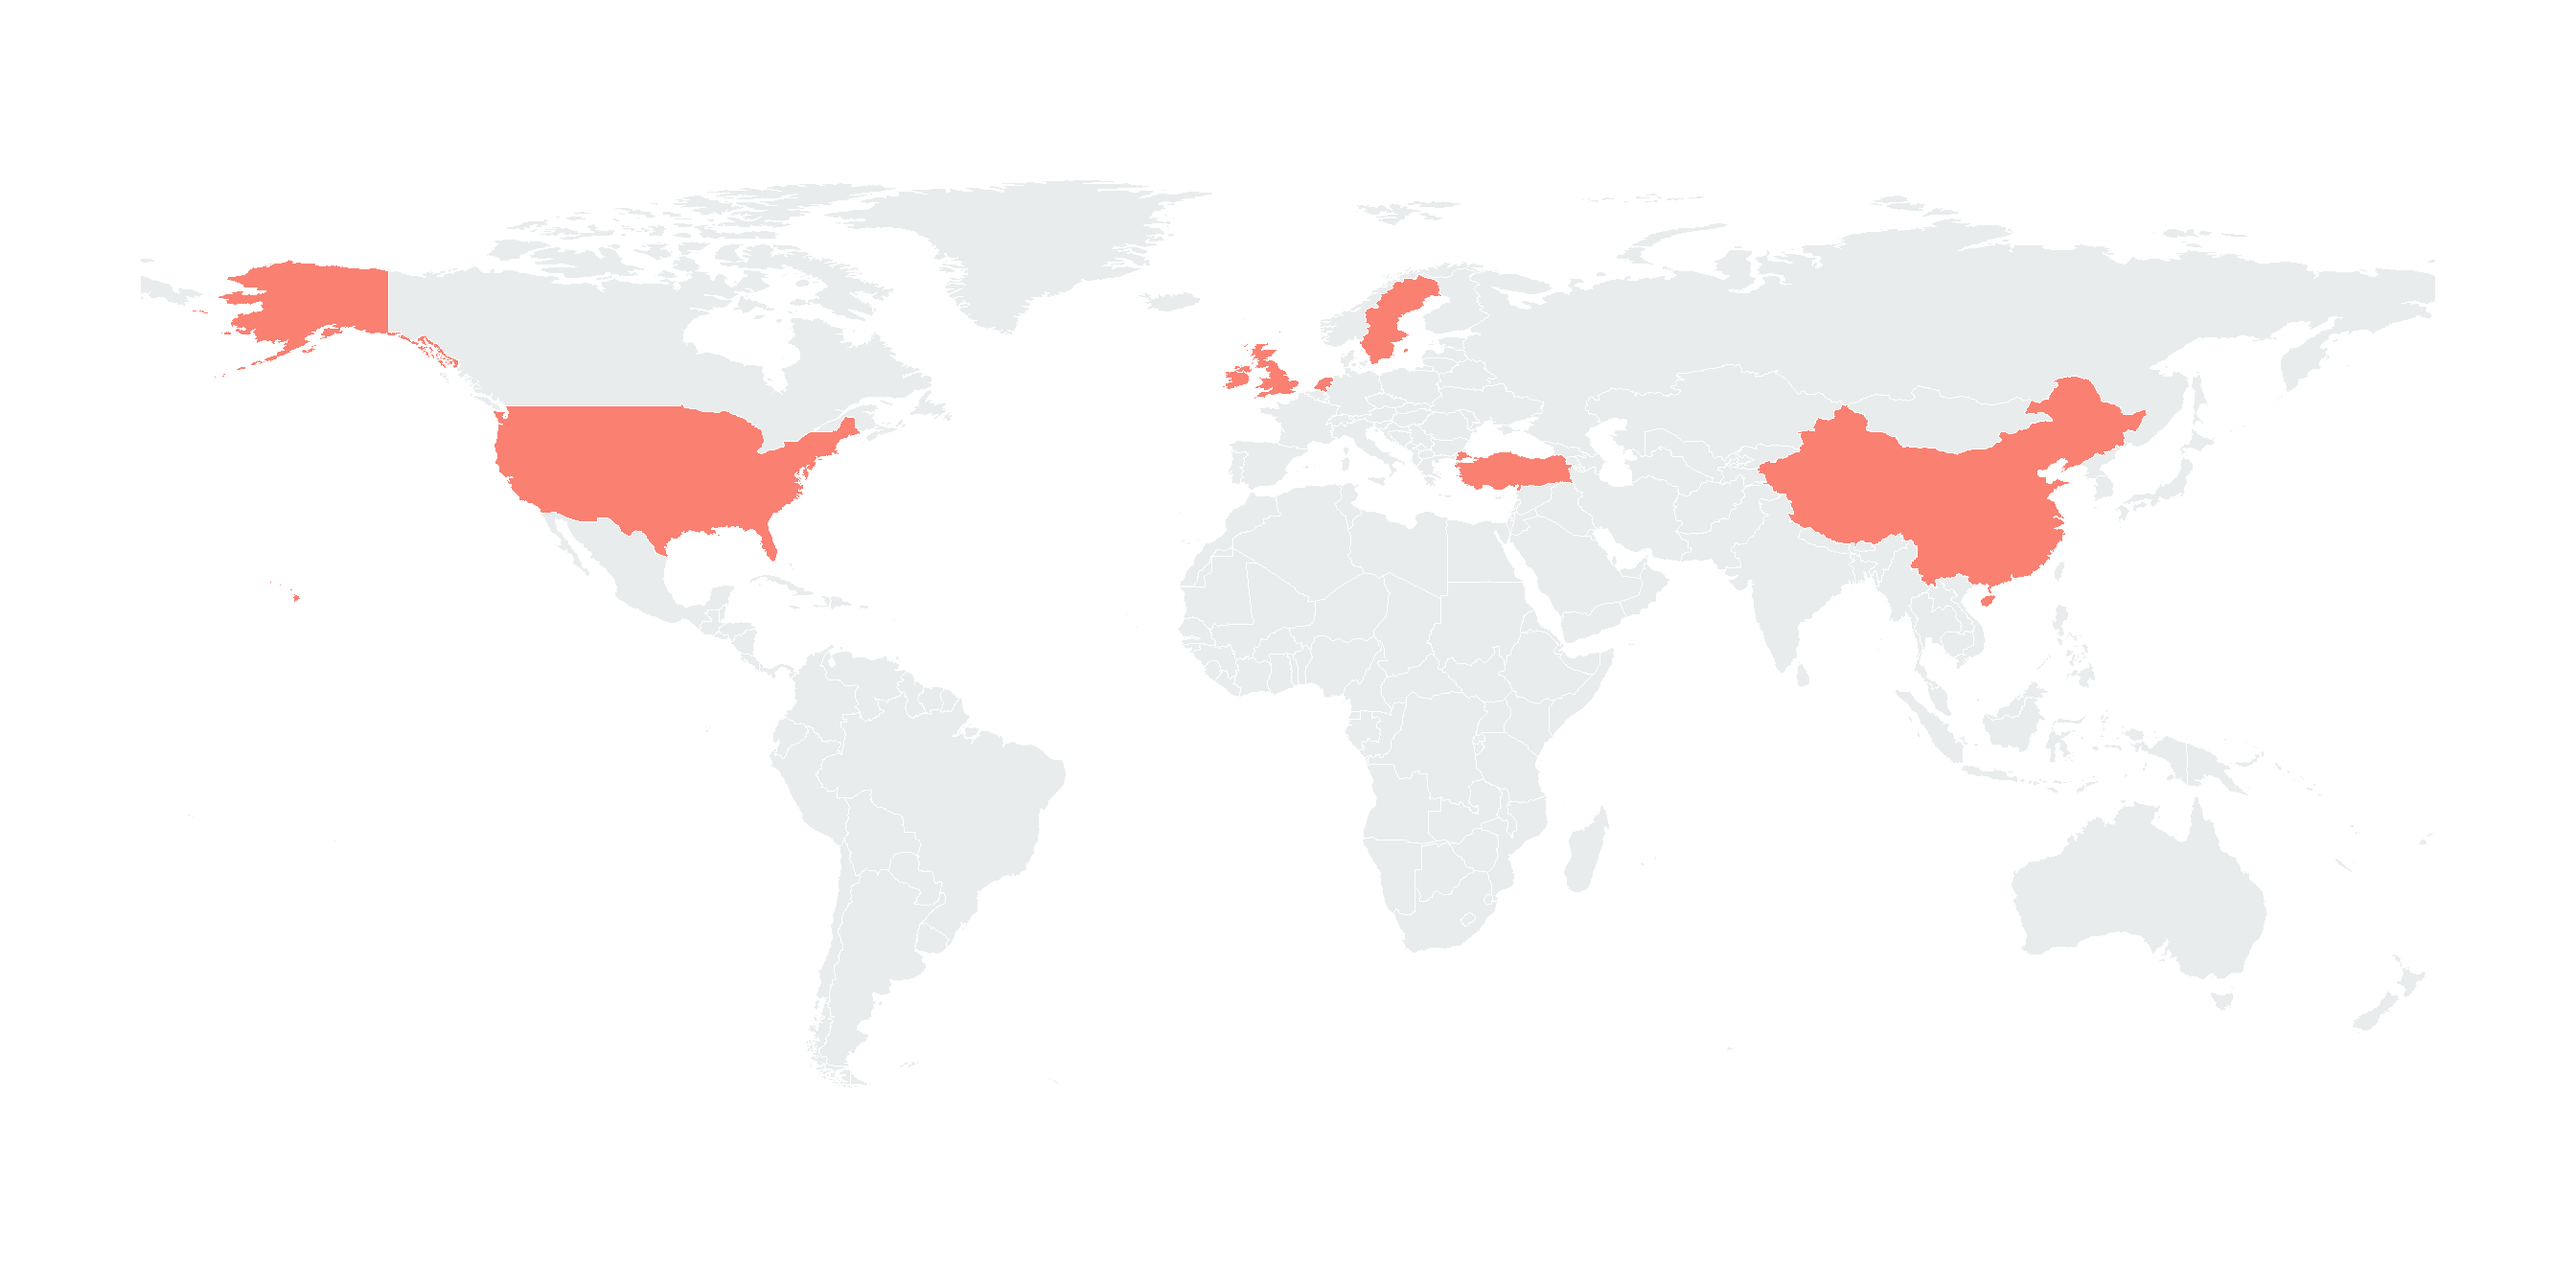
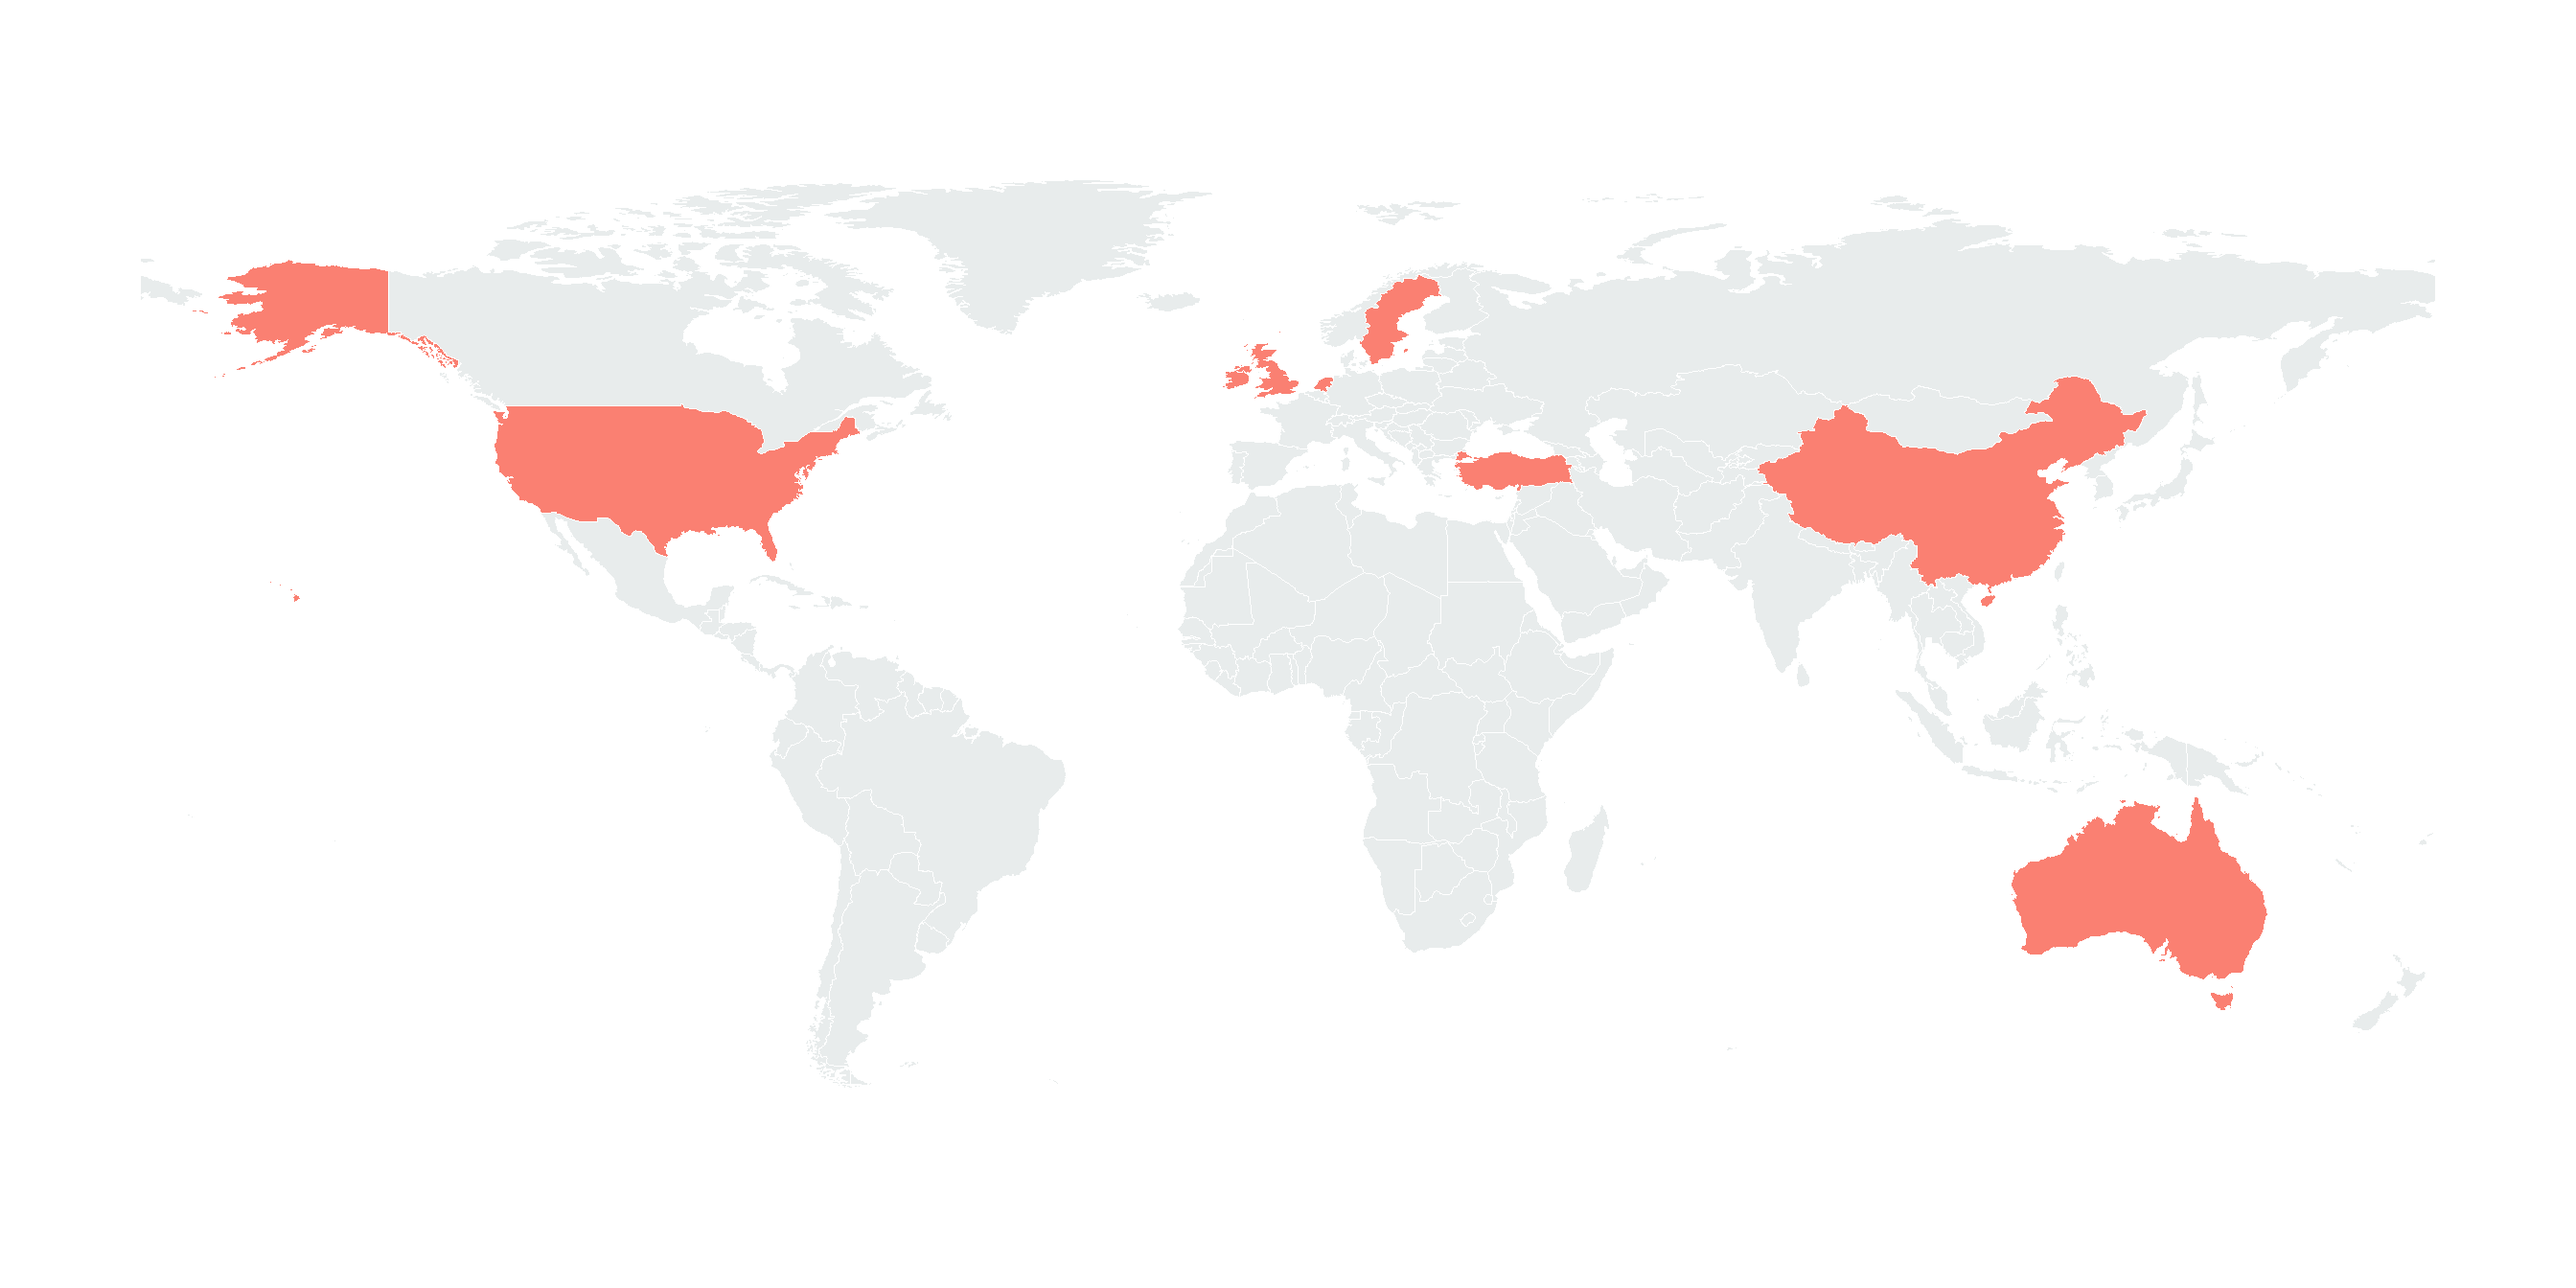
Built site for gh-pages

Changed region(s): [[0.7812, 0.625, 0.9062, 0.7812]]

diff --git a/members.html b/members.html
@@ -173,10 +173,10 @@ CATER brings together researchers, doctoral researchers, educators, and collabor
 <p><span>16</span> <label>Members</label></p>
 </div>
 <div>
-<p><span>12</span> <label>Institutions</label></p>
+<p><span>16</span> <label>Institutions</label></p>
 </div>
 <div>
-<p><span>7</span> <label>Countries</label></p>
+<p><span>8</span> <label>Countries</label></p>
 </div>
 </div>
 <div class="cell">
@@ -316,6 +316,17 @@ Laurus Ryecroft, UK
 </div>
 </div>
 <div class="member-card">
+<p><a href="https://researchportal.scu.edu.au/esploro/profile/david_ellis/overview?institution=61SCU_INST" target="_blank" rel="noopener noreferrer" class="member-photo-link"> <img src="images/members/no-profile-image.jpg" alt="David Ellis" class="member-photo"> </a></p>
+<div class="member-info">
+<p class="member-name">
+David Ellis
+</p>
+<p class="member-location">
+SCU, Australia
+</p>
+</div>
+</div>
+<div class="member-card">
 <p><a href="https://www.liammaquet.com" target="_blank" rel="noopener noreferrer" class="member-photo-link"> <img src="images/members/liam-maquet.jpg" alt="Liam Maquet" class="member-photo"> </a></p>
 <div class="member-info">
 <p class="member-name">
@@ -344,6 +355,17 @@ UL, Ireland
 </div>
 </div>
 <div class="member-card">
+<p><a href="https://www.scu.edu.au/about/contacts/directory/132473/" target="_blank" rel="noopener noreferrer" class="member-photo-link"> <img src="images/members/no-profile-image.jpg" alt="Leighann Ness Wilson" class="member-photo"> </a></p>
+<div class="member-info">
+<p class="member-name">
+Leighann Ness Wilson
+</p>
+<p class="member-location">
+SCU, Australia
+</p>
+</div>
+</div>
+<div class="member-card">
 <p><a href="https://www.seanoconnor.eu/" target="_blank" rel="noopener noreferrer" class="member-photo-link"> <img src="images/members/sean-oconnor.jpg" alt="Sean O'Connor" class="member-photo"> </a></p>
 <div class="member-info">
 <p class="member-name">
@@ -362,6 +384,17 @@ Jason Power
 </p>
 <p class="member-location">
 UL, Ireland
+</p>
+</div>
+</div>
+<div class="member-card">
+<p><img src="images/members/carol-puddicombe.jpg" alt="Carol Puddicombe" class="member-photo"></p>
+<div class="member-info">
+<p class="member-name">
+Carol Puddicombe
+</p>
+<p class="member-location">
+ECU, Australia
 </p>
 </div>
 </div>
@@ -391,6 +424,28 @@ CTH, Sweden
 </div>
 </div>
 <div class="member-card">
+<p><a href="https://www.jtdesignandtechnology.com/" target="_blank" rel="noopener noreferrer" class="member-photo-link"> <img src="images/members/joanne-taylor.jpg" alt="Joanne Taylor" class="member-photo"> </a></p>
+<div class="member-info">
+<p class="member-name">
+Joanne Taylor
+</p>
+<p class="member-location">
+UCL, UK
+</p>
+</div>
+</div>
+<div class="member-card">
+<p><a href="www.linkedin.com/in/wahedshabnam" target="_blank" rel="noopener noreferrer" class="member-photo-link"> <img src="images/members/no-profile-image.jpg" alt="Shabnam Wahed" class="member-photo"> </a></p>
+<div class="member-info">
+<p class="member-name">
+Shabnam Wahed
+</p>
+<p class="member-location">
+GSU, USA
+</p>
+</div>
+</div>
+<div class="member-card">
 <p><img src="images/members/qiuyue-yang.jpg" alt="Qiuyue Yang" class="member-photo"></p>
 <div class="member-info">
 <p class="member-name">
@@ -398,6 +453,17 @@ Yang, Qiuyue
 </p>
 <p class="member-location">
 HBUT, China
+</p>
+</div>
+</div>
+<div class="member-card">
+<p><a href="https://liu.se/medarbetare/celzi43" target="_blank" rel="noopener noreferrer" class="member-photo-link"> <img src="images/members/no-profile-image.jpg" alt="Celeste Zimmermann" class="member-photo"> </a></p>
+<div class="member-info">
+<p class="member-name">
+Celeste Zimmermann
+</p>
+<p class="member-location">
+LiU, Sweden
 </p>
 </div>
 </div>
